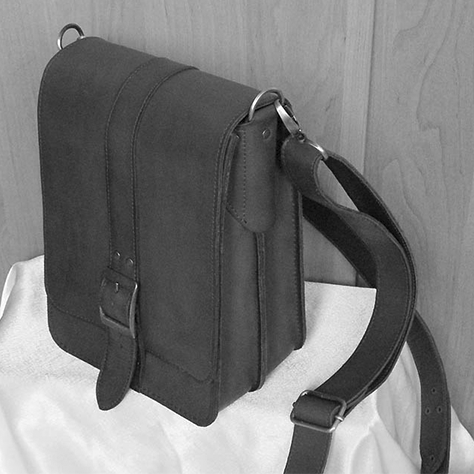
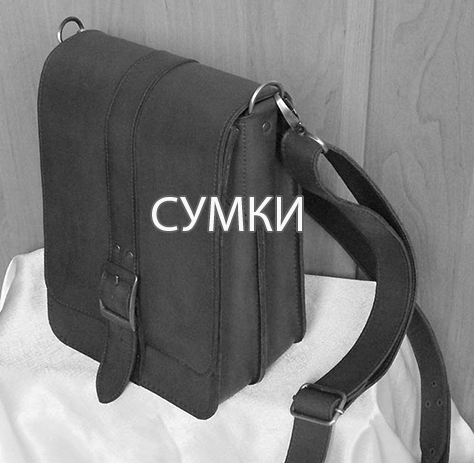
content main page

diff --git a/css/main.css b/css/main.css
@@ -43,9 +43,8 @@ body {
 .content {
 	padding: 0 0 0px 0;
 	width: 100%;
-	max-width: 1370px;
+	max-width: 1200px;
 	margin: auto;
-
 }
 
 .left{
@@ -66,7 +65,7 @@ body {
 	-moz-box-sizing: border-box;
 	-webkit-box-sizing: border-box;
 	margin: auto;
-	max-width: 1370px;
+	max-width: 1200px;
 }
 
 
@@ -75,7 +74,8 @@ body {
 header{
 	width: 100%;
 	max-width: 1370px;
-	border: 0px solid red;
+	border-left: 1px solid #efefef;
+	border-right: 1px solid #efefef;
 	padding: 10px 0 5px;
 	box-sizing: border-box;
 	-moz-box-sizing: border-box;
@@ -112,7 +112,7 @@ header{
 }
 
 .burger_menu_close img{
-	width: 35px;
+	width: 37px;
 	margin-right: 2%;
 	margin-top: 3px;
 	cursor: pointer;
@@ -161,7 +161,7 @@ header{
 	display: block;
 	text-decoration: none;
 	color: #181818;
-	font-size: 18px;
+	font-size: 20px;
 }
 
 .menu_left{
@@ -220,17 +220,18 @@ header{
 	width: 100%;
 	max-width: 1370px;
 	max-height: 565px;
+	margin: auto;
 }
 
 .wrap_main_categories{
 	width: 100%;
 	max-width: 1200px;
 	margin: auto;
-	border: 1px solid #6e62ff;
+	border: 0px solid #6e62ff;
 	min-height: 300px;
-	padding-top: 15px;
-	border-left: 1px solid #f7f7f7;
-	border-right: 1px solid #f7f7f7;
+	/*padding-top: 15px;*/
+	border-left: 1px solid #efefef;
+	border-right: 1px solid #efefef;
 }
 
 .wrap_main_categories:after{
@@ -240,76 +241,65 @@ header{
 }
 
 .left_col_main_categories{
-	border: 1px solid #ff49e2;
+	border: 0px solid #03fac0;
+	width: 50%;
 }
 
 .right_col_main_categories{
-	border: 1px solid #ff49e2;
+	border: 0px solid #03fac0;
+	width: 50%;
+}
+
+.col_main_categories{
+	position: relative;
 }
 
 .col_main_categories img{
+	width: 100%;
 }
 
 .belt_main_categories{
 	width: 99%;
-	min-width: 200px;
-	min-height: 500px;
-	background: green;
 	box-sizing: border-box;
 	-moz-box-sizing: border-box;
 	-webkit-box-sizing: border-box;
 	padding: 0;
 	margin-right: 10px;
-}
-
-.belt_main_categories img{
-	width: 100%;
+	position: relative;
 }
 
 .purse_main_categories{
 	width: 100%;
-	min-width: 200px;
-	min-height: 250px;
-	/*background: #4affff;*/
 	box-sizing: border-box;
 	-moz-box-sizing: border-box;
 	-webkit-box-sizing: border-box;
-	margin-bottom: 7px;
-}
-
-.bag_main_categories{
-	width: 49%;
-	min-width: 100px;
-	min-height: 250px;
-	background: #ffb839;
-	box-sizing: border-box;
-	-moz-box-sizing: border-box;
-	-webkit-box-sizing: border-box;
-	margin-right: 5px;
-}
-
-.accessories_main_categories{
-	width: 49%;
-	min-width: 100px;
-	min-height: 250px;
-	background: #2dff4f;
-	box-sizing: border-box;
-	-moz-box-sizing: border-box;
-	-webkit-box-sizing: border-box;
-	margin-right: 5px;
-
+	margin-bottom: 1%;
 }
 
 .image_hover{
 	position: absolute;
-	max-width: 591px;
 }
 
 .image_upper{
 	position: relative;
-	max-width: 591px;
 }
 
 .image_upper:hover{
 	opacity: 0;
 }
+
+.bag_main_categories{
+	width: 49%;
+	box-sizing: border-box;
+	-moz-box-sizing: border-box;
+	-webkit-box-sizing: border-box;
+}
+
+.accessories_main_categories{
+	width: 50%;
+	height: 100%;
+	box-sizing: border-box;
+	-moz-box-sizing: border-box;
+	-webkit-box-sizing: border-box;
+}
+

diff --git a/index.html b/index.html
@@ -68,7 +68,7 @@
 	</div>
 	<div class="wrap_main_categories">
 
-		<div class="col-sm-6 col-xs-12 left left_col_main_categories">
+		<div class="left left_col_main_categories">
 			<a href="#">
 				<div class="col_main_categories belt_main_categories">
 					<div><img src="image/port-2.png" alt="портупеи" class="image_hover"></div>
@@ -78,22 +78,27 @@
 			</a>
 		</div>
 
-		<div class="col-sm-6 col-xs-12 right right_col_main_categories">
+		<div class="right right_col_main_categories">
 
 			<a href="#">
 				<div class="col_main_categories purse_main_categories">
 					<div><img src="image/koshelek2.png" alt="кошельки" class="image_hover"></div>
 					<div><img src="image/koshelek.png" alt="кошельки" class="image_upper"></div>
-
+				</div>
+			</a>
+			<a href="#">
+				<div class="col_main_categories bag_main_categories left">
+					<div><img src="image/symka2.png" alt="сумки" class="image_hover"></div>
+					<div><img src="image/symka.png" alt="сумки" class="image_upper"></div>
+				</div>
+			</a>
+			<a href="#">
+				<div class="col_main_categories accessories_main_categories right">
+					<div><img src="image/accessories2.png" alt="аксессуары" class="image_hover"></div>
+					<div><img src="image/accessories.png" alt="аксессуары" class="image_upper"></div>
 				</div>
 			</a>
 
-			<div class="col_main_categories bag_main_categories left">
-				<!--<img src="image/symka.png" alt="сумки">-->
-			</div>
-			<div class="col_main_categories accessories_main_categories right">
-				<!--<img src="image/symka.png" alt="аксессуары">-->
-			</div>
 		</div>
 
 	</div>

diff --git a/css/media.css b/css/media.css
@@ -22,3 +22,19 @@
 	}
 
 }
+
+
+@media screen and (max-width: 470px) {
+	.left_col_main_categories{
+		width: 100%;
+	}
+
+	.belt_main_categories{
+		width: 100%;
+		margin-bottom: 2px;
+	}
+
+	.right_col_main_categories{
+		width: 100%;
+	}
+}
